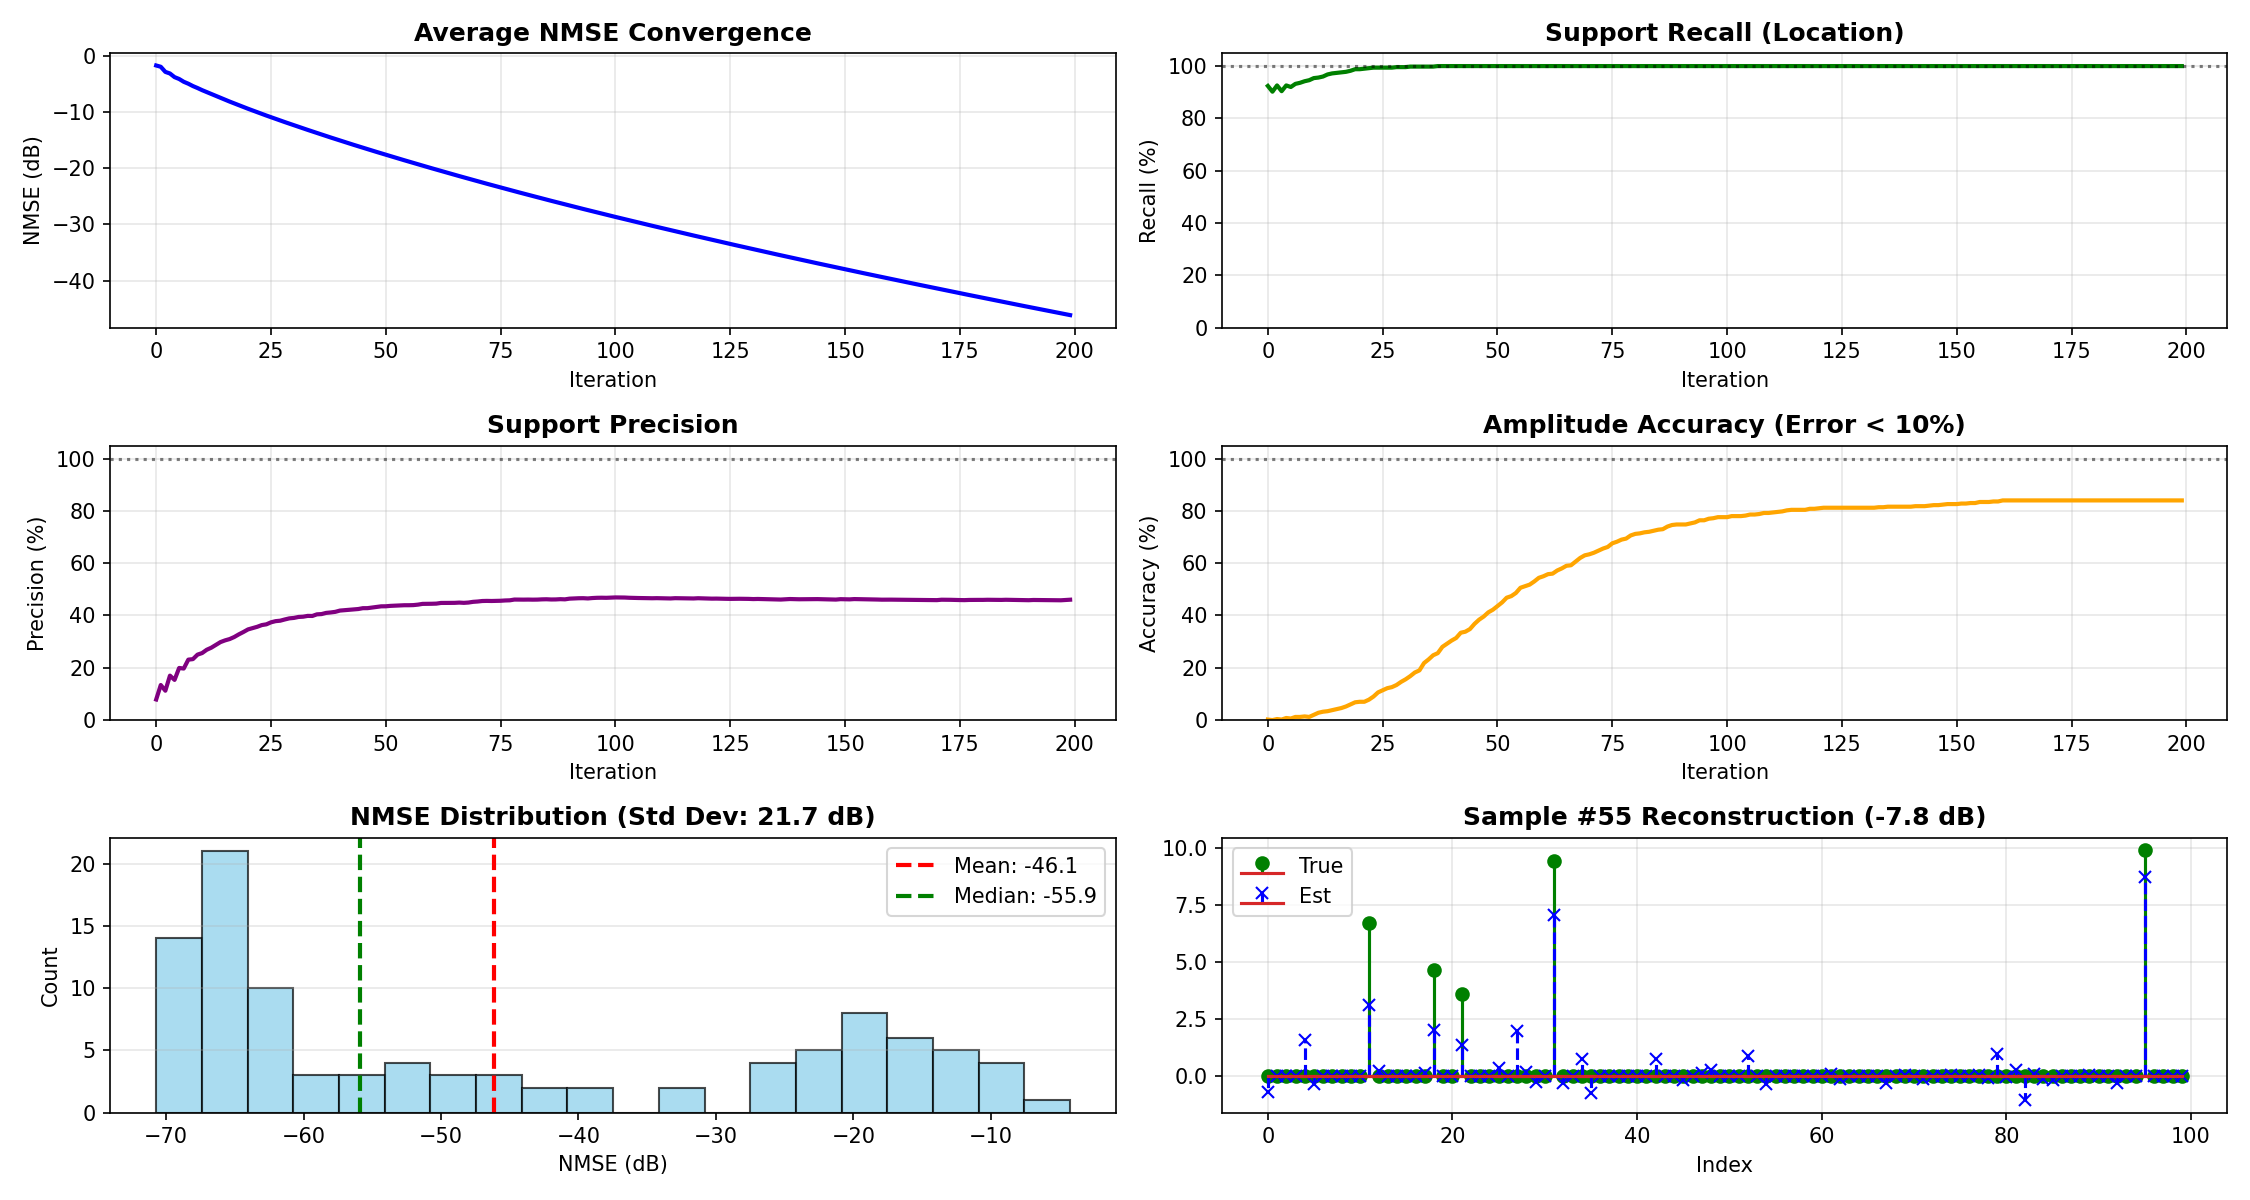
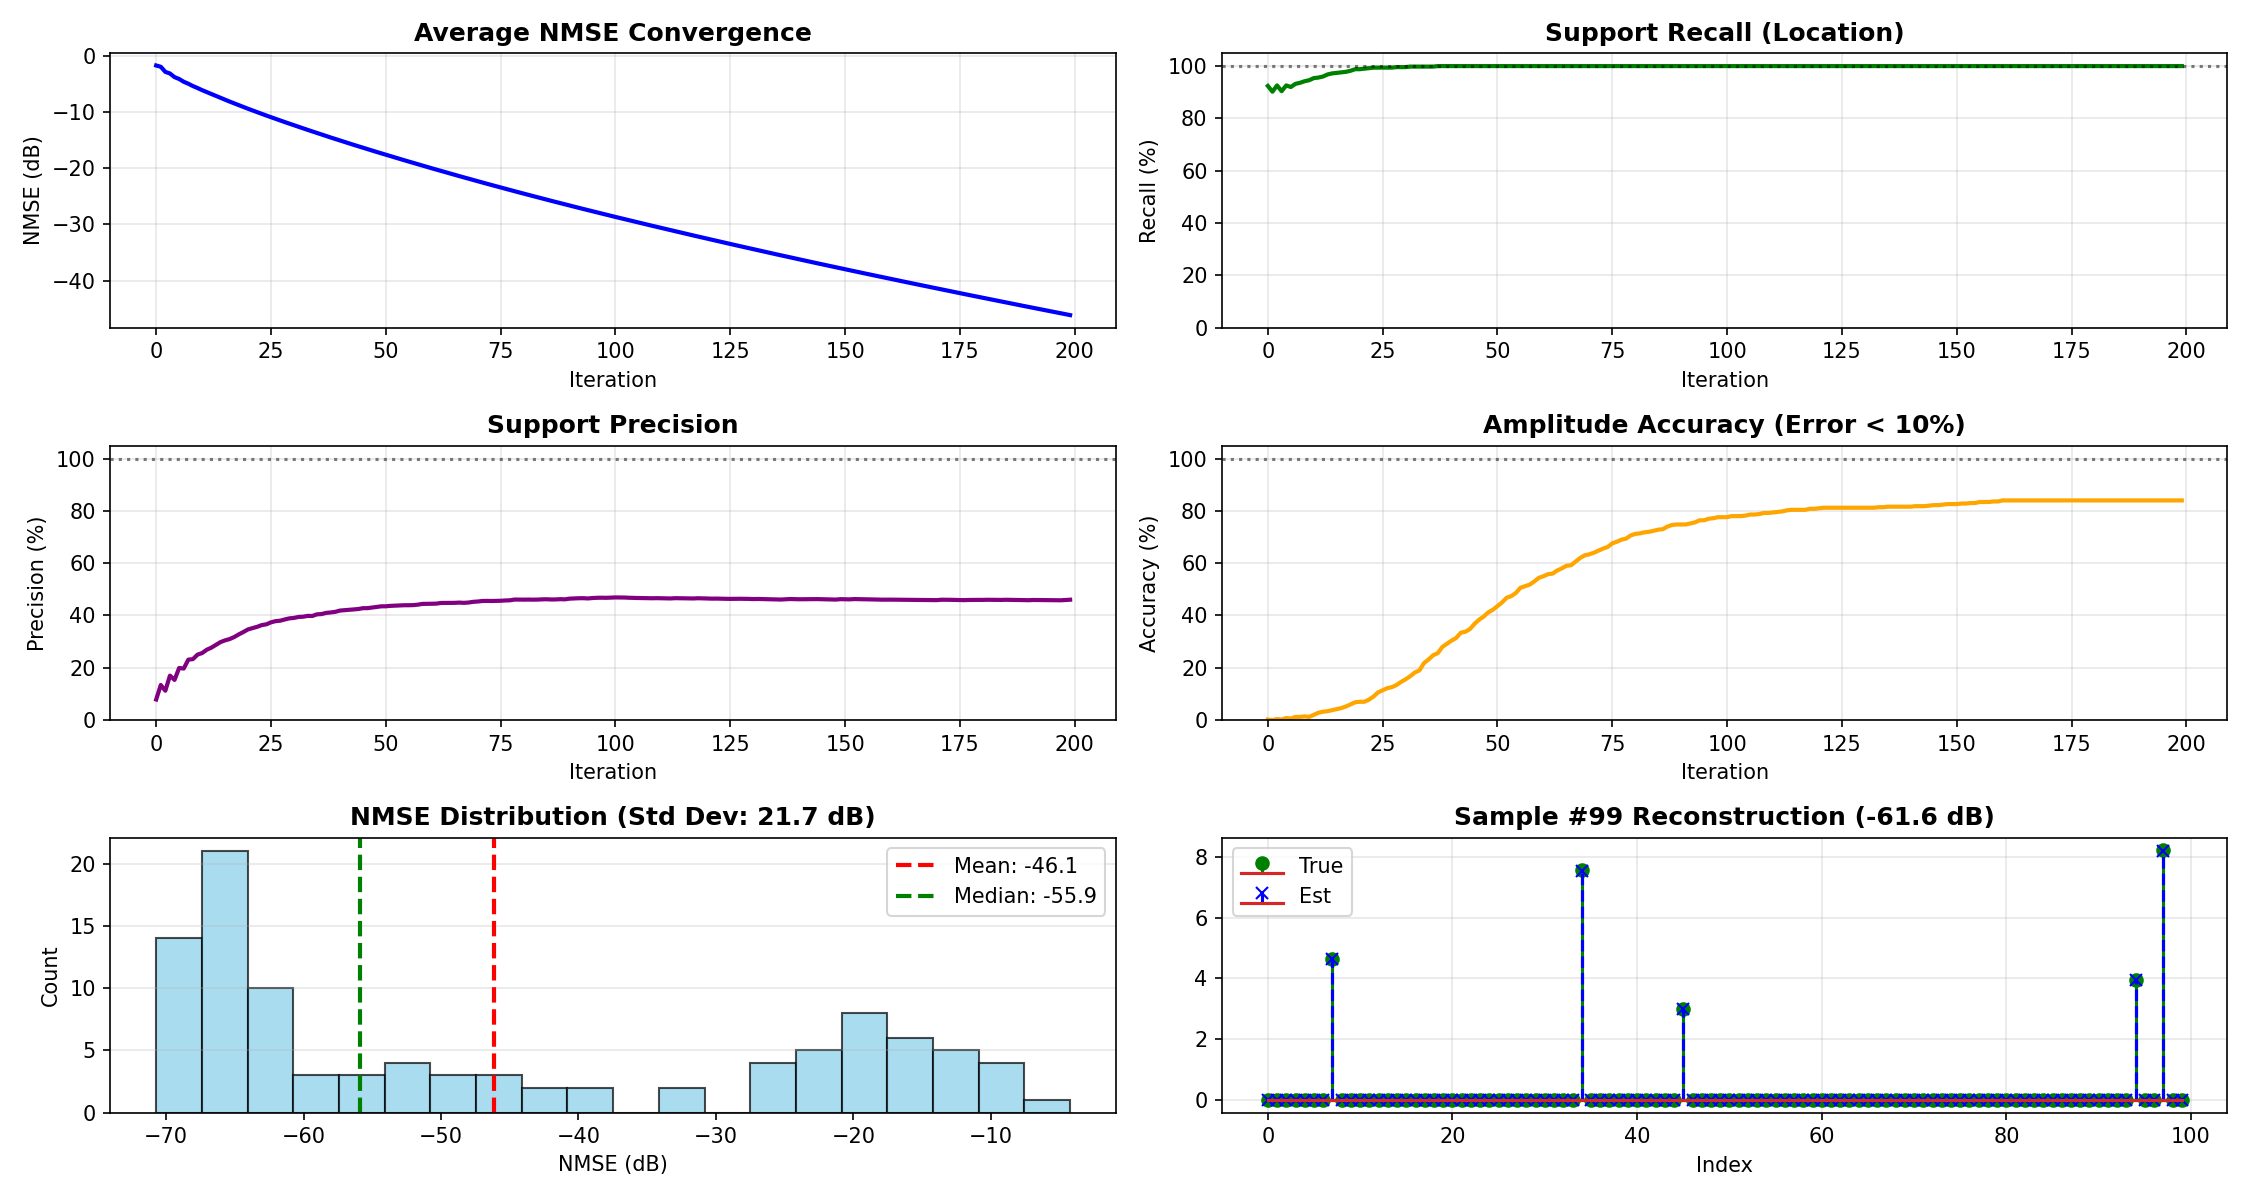
Minor change in ista_stats

Changed region(s): [[0.56, 0.6475, 0.9956, 0.925]]

diff --git a/LISTA/ista.py b/LISTA/ista.py
@@ -205,7 +205,7 @@ worst_idx = np.argmax(nmse_values)
 best_idx = np.argmin(nmse_values)
 print(f"Worst Sample Index: {worst_idx} with NMSE {nmse_values[worst_idx]:.2f} dB")
 print(f"Best Sample Index: {best_idx} with NMSE {nmse_values[best_idx]:.2f} dB")
-sample_idx = 55
+sample_idx = 99
 # 90 is -18dB and 0 is -23.5dB, 99 and 98 are very good
 x_true_np = X_true[sample_idx].detach().cpu().numpy()
 x_est_np = x[sample_idx].detach().cpu().numpy()
